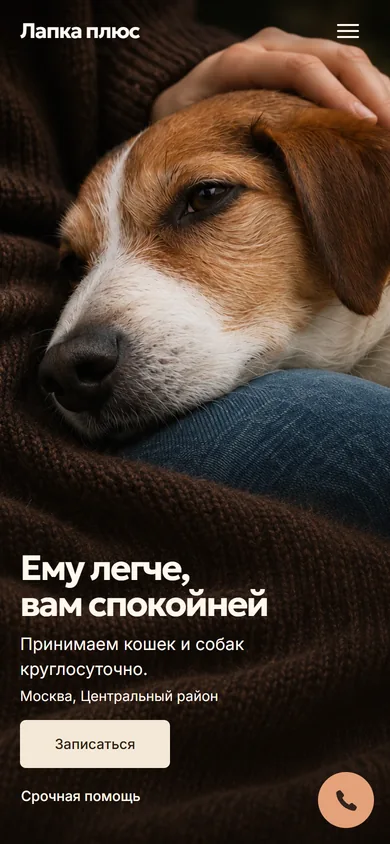
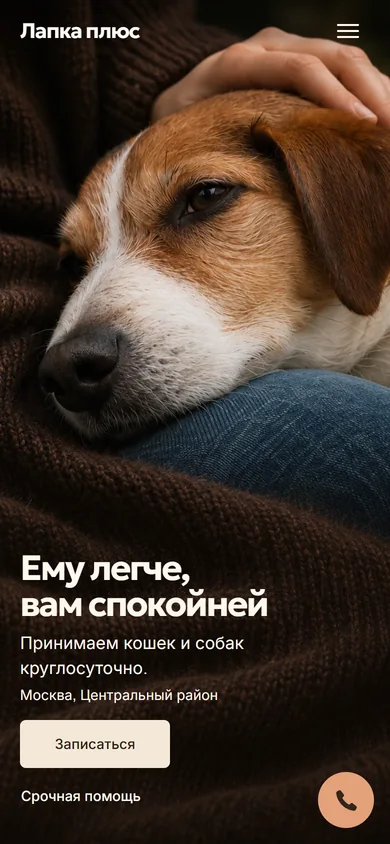
Refresh website previews and remove Lapka frame

Changed region(s): [[0.0615, 0.7393, 0.6154, 0.8318], [0.2462, 0.9242, 0.2769, 0.955]]

diff --git a/index.html b/index.html
@@ -16,7 +16,7 @@
   <link rel="preload" href="./assets/previews/workspace-photo-mobile.webp" as="image" type="image/webp" media="(max-width: 767px)" fetchpriority="high">
   <link rel="preload" href="./assets/previews/workspace-photo-wide.webp" as="image" type="image/webp" media="(min-width: 768px)" fetchpriority="high">
   <link rel="stylesheet" href="./assets/fonts/fonts.css">
-  <link rel="stylesheet" href="./portfolio.css?v=0c63ff63420e">
+  <link rel="stylesheet" href="./portfolio.css?v=67204c8b8cab">
   <noscript>
     <style>
       @media (max-width: 980px) {
@@ -118,11 +118,11 @@
                alt="Дом в сосновом лесу, заголовок «Строим дома для жизни за городом» и кнопки просмотра проектов и расчёта стоимости." loading="lazy" decoding="async" draggable="false">
         </picture>
       </a>
-      <a class="slide slide--white" data-slide="0" data-position="0"
+      <a class="slide slide--photo" data-slide="0" data-position="0"
          aria-label="Открыть сайт «Лапка плюс»" href="https://vahfi66.github.io/lapka-plus-site/" target="_blank" rel="noopener">
         <picture>
           <source media="(max-width: 767px)" srcset="./assets/previews/lapka-phone-390.webp 390w, ./assets/previews/lapka-phone.webp 780w" sizes="min(72vw, 265px)" width="780" height="1688">
-          <img src="./assets/previews/lapka-wide.webp" srcset="./assets/previews/lapka-wide-800.webp 800w, ./assets/previews/lapka-wide.webp 1440w" sizes="min(42vw, 542px)" width="1440" height="900"
+          <img src="./assets/previews/lapka-wide.webp" srcset="./assets/previews/lapka-wide-800.webp 800w, ./assets/previews/lapka-wide.webp 1425w" sizes="min(42vw, 542px)" width="1425" height="900"
                alt="Собака рядом с хозяином, заголовок «Ему легче, вам спокойней», запись и срочная помощь." loading="lazy" decoding="async" draggable="false">
         </picture>
       </a>
@@ -131,7 +131,7 @@
         <picture>
           <source media="(max-width: 767px)" srcset="./assets/previews/auravell-phone-390.webp 390w, ./assets/previews/auravell-phone.webp 780w" sizes="min(72vw, 265px)" width="780" height="1688">
           <img src="./assets/previews/auravell-wide.webp" srcset="./assets/previews/auravell-wide-800.webp 800w, ./assets/previews/auravell-wide.webp 1440w" sizes="min(42vw, 542px)" width="1440" height="900"
-               alt="Кольцо Éclat крупным планом, цена 84 000 ₽ и кнопка «Смотреть каталог»." loading="lazy" decoding="async" draggable="false">
+               alt="Кольцо Éclat крупным планом, цена 84 000 ₽ и переход в каталог." loading="lazy" decoding="async" draggable="false">
         </picture>
       </a>
       </div>

diff --git a/portfolio.css b/portfolio.css
@@ -353,6 +353,8 @@ img { display: block; }
 .slide:focus-visible { outline-offset: -5px; z-index: 3; }
 .slide picture, .slide img { display: block; width: 100%; height: 100%; }
 .slide img { object-fit: contain; pointer-events: none; user-select: none; }
+.slide--photo { border: 0; }
+.slide--photo img { object-fit: cover; }
 
 .project-details {
   display: grid;
